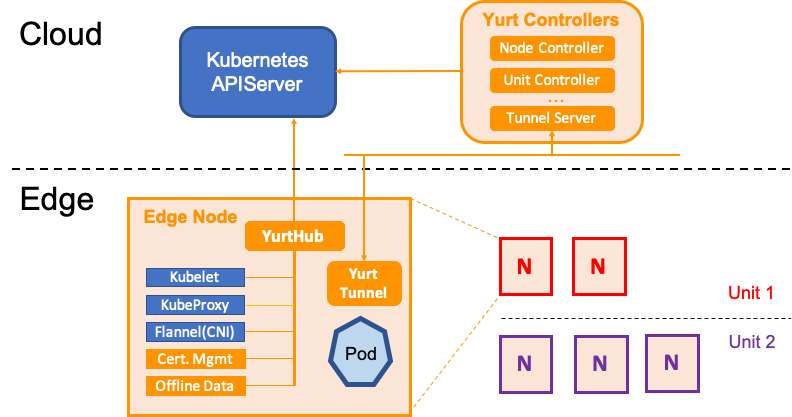
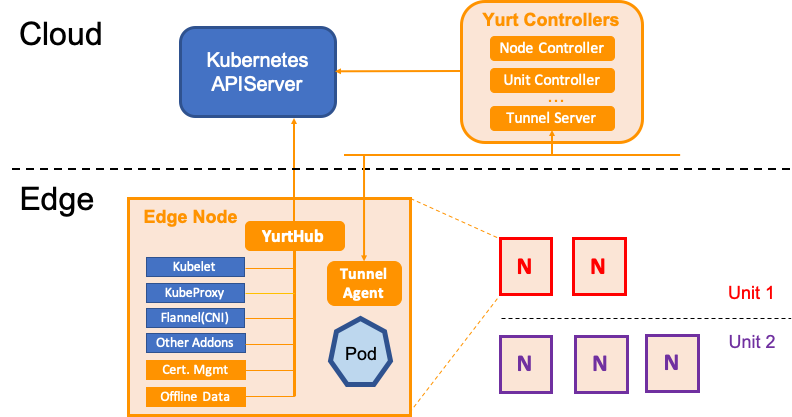
Add OWNERS and PROJECT and fix small issues

Changed region(s): [[0.1818, 0.5923, 0.3333, 0.9976], [0.4242, 0.6235, 0.5152, 0.717]]

diff --git a/pkg/yurthub/cachemanager/cache_manager_test.go b/pkg/yurthub/cachemanager/cache_manager_test.go
@@ -1014,9 +1014,9 @@ func TestQueryCacheForList(t *testing.T) {
 			expectResult: expectData{
 				rv: "5",
 				data: map[string]struct{}{
-					"pod-default-mypod1-1": struct{}{},
-					"pod-default-mypod2-2": struct{}{},
-					"pod-default-mypod3-5": struct{}{},
+					"pod-default-mypod1-1": {},
+					"pod-default-mypod2-2": {},
+					"pod-default-mypod3-5": {},
 				},
 			},
 		},
@@ -1069,10 +1069,10 @@ func TestQueryCacheForList(t *testing.T) {
 			expectResult: expectData{
 				rv: "12",
 				data: map[string]struct{}{
-					"node-mynode1-6":  struct{}{},
-					"node-mynode2-8":  struct{}{},
-					"node-mynode3-10": struct{}{},
-					"node-mynode4-12": struct{}{},
+					"node-mynode1-6":  {},
+					"node-mynode2-8":  {},
+					"node-mynode3-10": {},
+					"node-mynode4-12": {},
 				},
 			},
 		},

diff --git a/README.md b/README.md
@@ -48,7 +48,7 @@ The major OpenYurt components consist of:
   the node controller and the unit controller (not released yet) for different edge computing use cases. For example,
   the Pods in the nodes that are in the `autonomy` mode will not be evicted from APIServer even if the 
   node heartbeats are missing.
-- **Yurt tunnel server**: It connects with the `YurtTunnel` daemon running in each edge node via a
+- **Yurt tunnel server**: It connects with the `TunnelAgent` daemon running in each edge node via a
   reverse proxy to establish a secure network access between the cloud site control plane and the edge nodes 
   that are connected to the intranet.
 
